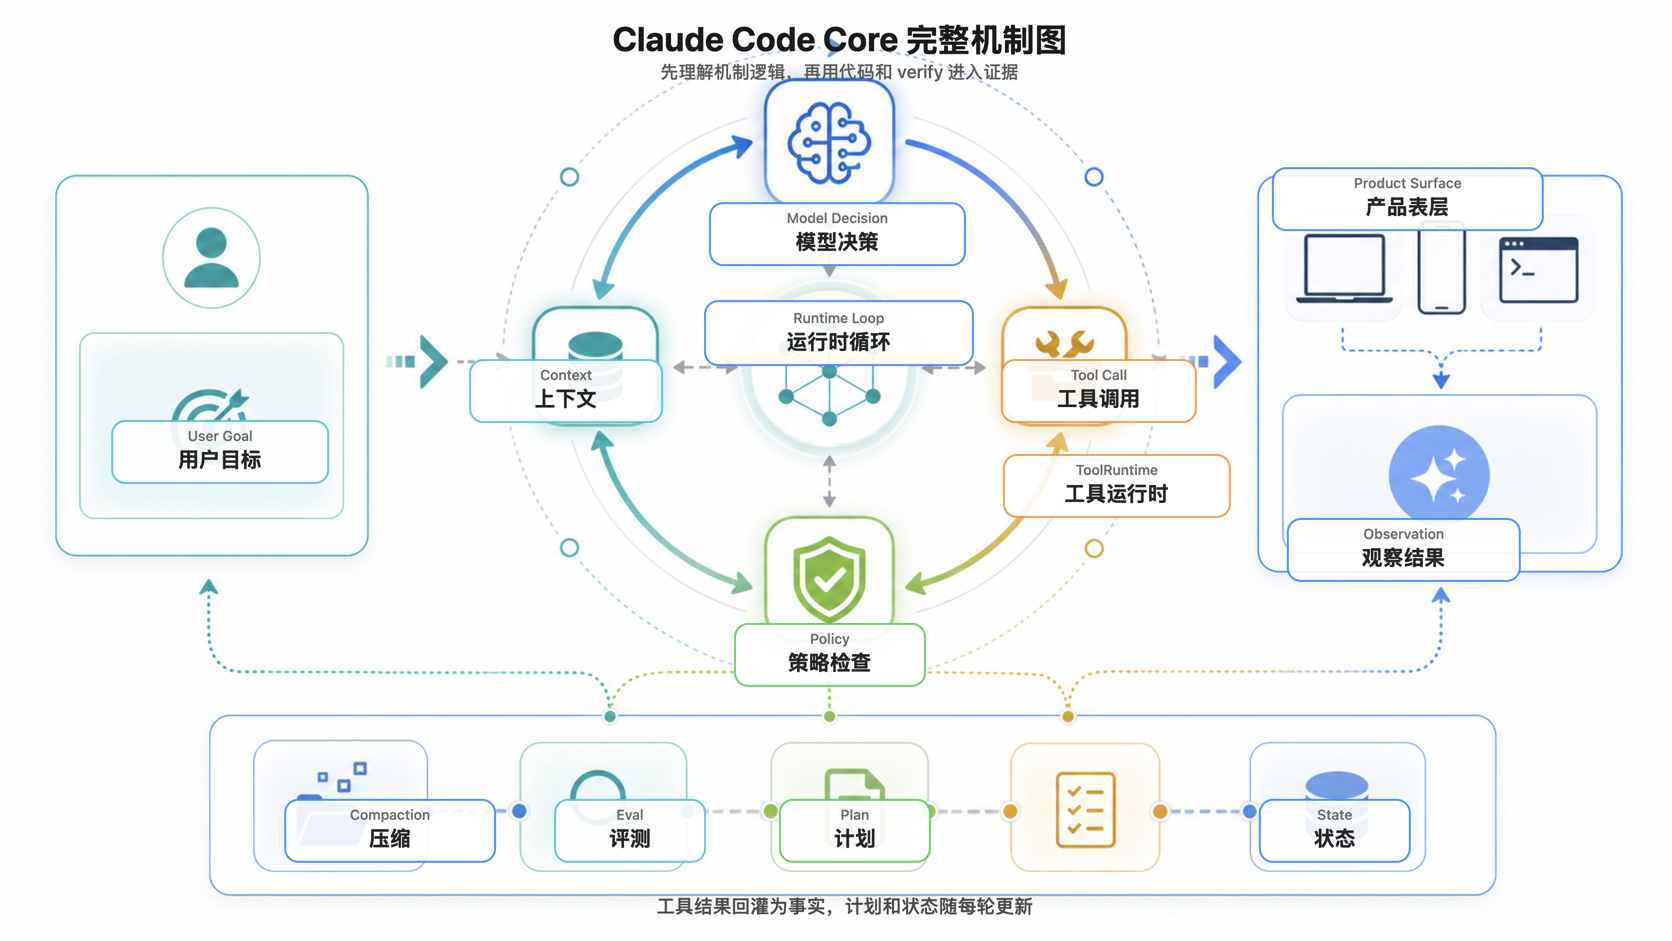
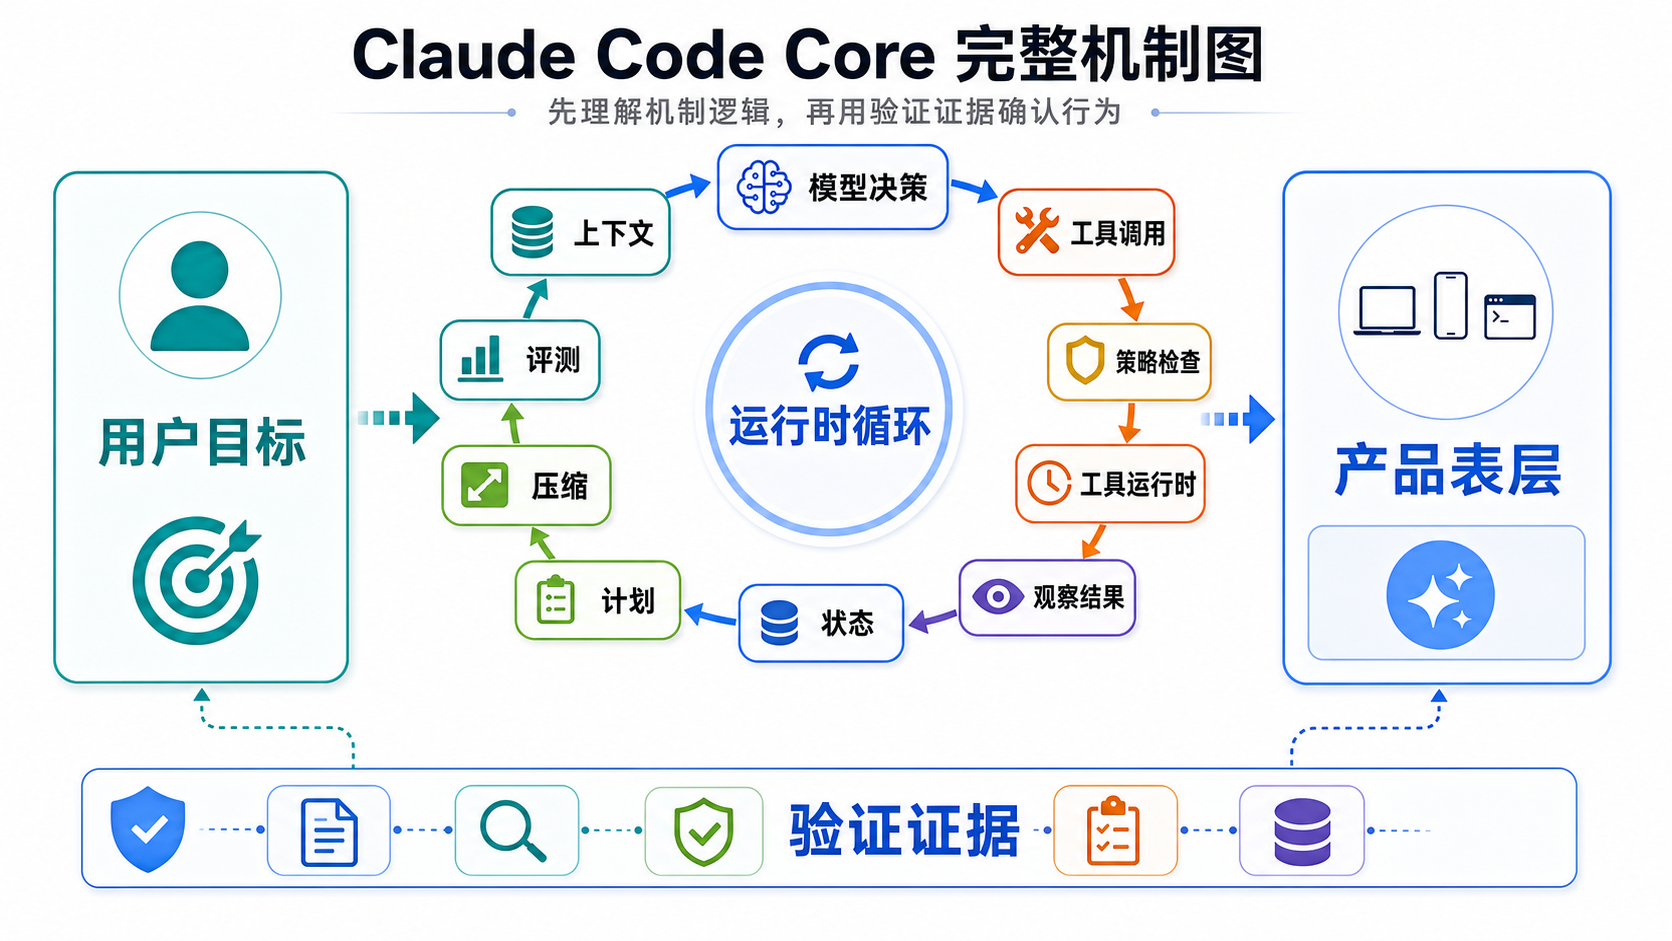
Use directly generated Chinese mechanism diagram

diff --git a/CURRENT_STATE.md b/CURRENT_STATE.md
@@ -170,7 +170,7 @@ Eval 如何证明能力真的变强。
 | `docs/reference/open-source-project-standards.md` | 开源项目规范参考 | 把优秀 GitHub 项目经验转译成本项目 README、reference、Issue、PR 和验证标准 |
 | `docs/reference/core-runtime-object-map.md` | 运行时对象地图 | 把 Lab 01 到 Core 31 收束为少数运行时对象（Runtime object）和边界（boundary） |
 | `docs/reference/claude-code-capability-coverage-matrix.md` | 官方能力覆盖矩阵 | 把 Claude Code 官方公开能力、本项目 Course / Lab / Core 转译、verify 证据和 out-of-scope 边界放在同一张表里 |
-| `assets/diagrams/claude-code-core-mechanism.png` | README 第一视觉机制图 | 用 GPT 生成视觉底图和本地确定性标签排版展示完整机制链路，不作为官方架构图 |
+| `assets/diagrams/claude-code-core-mechanism.png` | README 第一视觉机制图 | 用 GPT 直接生成中文机制图展示完整机制链路，不作为官方架构图 |
 | `docs/releases/v0.1-learning-preview.md` | release note | v0.1 learning preview 的发布说明，不替代当前状态或验证记录 |
 | `CHANGELOG.md` | 变更记录 | 面向发布和治理变化的人工变更记录，不替代当前状态 |
 | `scripts/check-doc-links.mjs` | 文档链接检查脚本 | 检查 Markdown 内部相对链接；外部链接只计数，不在 CI 中抓外网 |

diff --git a/CHANGELOG.md b/CHANGELOG.md
@@ -7,7 +7,7 @@ This project uses a human-readable changelog for learning-system and repository-
 ### Added
 
 - Added `docs/core-logic-map.md` as the first mechanism overview for the full Claude Code-like Agent logic chain.
-- Added `assets/diagrams/claude-code-core-mechanism.png` as the README first visual, using a GPT-generated visual base with deterministic labels.
+- Added `assets/diagrams/claude-code-core-mechanism.png` as the README first visual, using a directly generated Chinese mechanism diagram.
 
 ### Changed
 

diff --git a/docs/project-structure.md b/docs/project-structure.md
@@ -50,7 +50,7 @@ docs/open-source-boundary.md
 assets/diagrams/
 ```
 
-当前 README 第一视觉使用 `assets/diagrams/claude-code-core-mechanism.png`。它是 GPT 生成视觉底图加本地确定性标签排版，不是官方 Claude Code 架构图或源码映射。
+当前 README 第一视觉使用 `assets/diagrams/claude-code-core-mechanism.png`。它是 GPT 直接生成的中文机制图，不是官方 Claude Code 架构图或源码映射。
 
 ## docs/course
 
